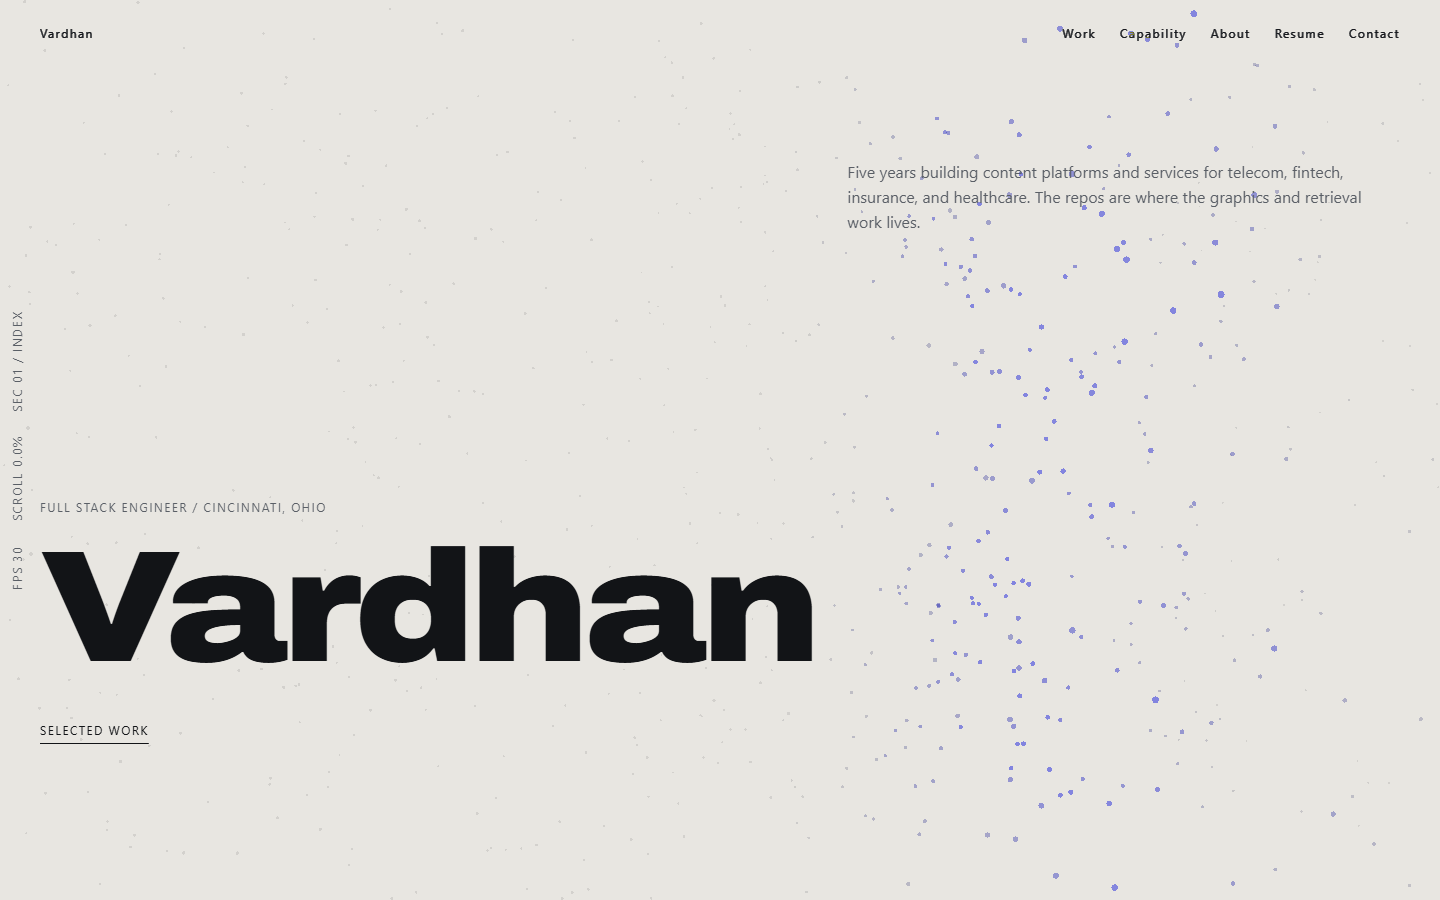
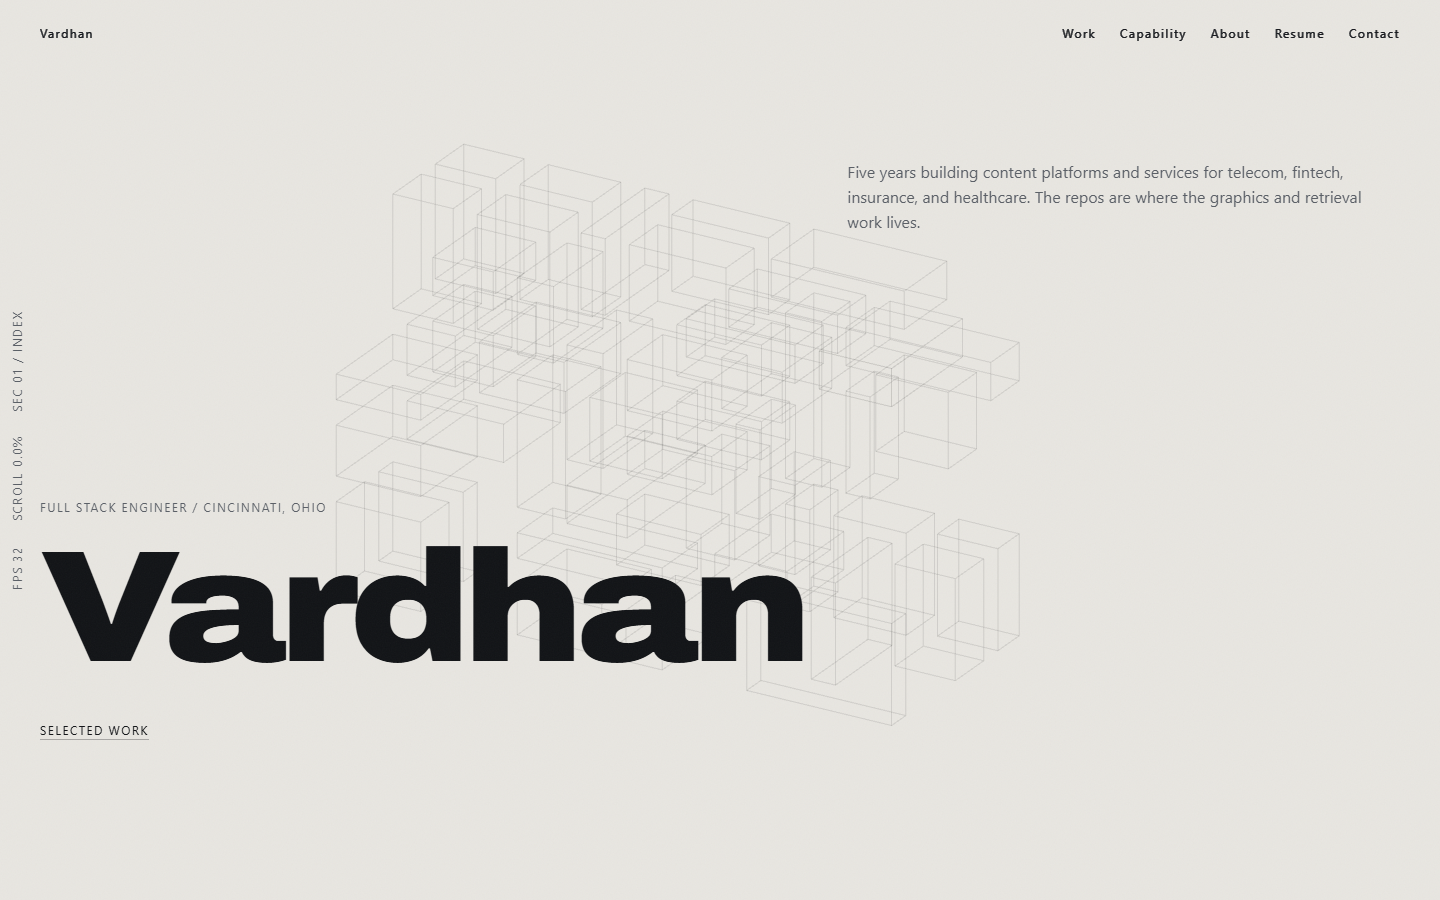
Bring the README back in line with the site
The README still described the hero as a point cloud, had no mention of Fit
Check, and its preview images predated all three workstreams.

- Document The Index: recursive subdivision, orthographic projection, the
  vertex-shader assembly, depth-weighted line opacity, and why the non-WebGL
  fallback is inline SVG rather than an img element.
- Add a Fit Check section covering the visible retrieval, the corpus, the
  calibrated relevance floor, and the guardrails.
- Recapture every preview image from the current build, including one showing
  a real assessment with its evidence on screen. Drop the unused about shot.
- Add scripts/preview.mjs so the images can be regenerated rather than
  hand-made, and list build-corpus alongside the other tooling.

Performance section rewritten to claim only what holds. Composite Lighthouse
scores measured here were not reproducible across a long session: with a
byte-identical bundle, desktop measured 93 early and 58 hours later. The table
now carries the figures that held across every run or are deterministic, names
mobile LCP as the one unmet budget, and says to measure the deployed site
rather than trust a local score.

Also correct the accessibility notes: an empty alt on a decorative image is
right rather than missing, and the hero reveal is skipped below 768px.

Changed region(s): [[0.1875, 0.5911, 0.5625, 0.7467]]

diff --git a/README.md b/README.md
@@ -10,12 +10,6 @@ Precise hairline grids, monospace telemetry, one accent colour, and scroll chore
 
 </div>
 
-<br />
-
-![Hero](docs/preview/hero.png)
-
-<br />
-
 ---
 
 ## The idea
@@ -31,6 +25,22 @@ SEC 03 / WORK        SCROLL 42.7%        FPS 60
 Every one of those numbers is real. The section comes from a bounds check against the viewport centre, the scroll percentage from the smooth-scroll engine's own progress value, and the frame rate from an actual `requestAnimationFrame` counter on a rolling one-second window. Nothing is a decorative animation pretending to be data.
 
 Everything else stays deliberately quiet so that one element can carry the personality.
+
+The second signature element is [Fit Check](#fit-check): paste a job description and the page tells you where Vardhan matches it and where he does not, showing the retrieved evidence rather than hiding it.
+
+---
+
+## The hero object
+
+![The Index](docs/preview/hero.png)
+
+A single constructed object built from 48 rectangular volumes on a strict three-dimensional grid, rendered as thin lines rather than solid surfaces. It is a content architecture seen in the abstract: modules nested inside modules, every edge parallel to one of three axes, nothing rotated off-axis.
+
+The structure comes from recursive subdivision rather than scattered placement, because subdivision is what a content hierarchy actually is, and because randomly positioned boxes read as a wireframe city. It is generated from a fixed seed, so it is the same object every build.
+
+On entry it assembles: modules arrive from outside the frame along a single axis each and snap into place, bottom to top. That runs entirely in the vertex shader from a single merged geometry, because animating 48 separate objects would mean 48 draw calls and per-object matrix work on the main thread every frame. Line opacity falls off with view depth, which is what stops the interior collapsing into a tangle and what makes it read as a drafted axonometric.
+
+Where WebGL does not run, below 768px or under reduced motion, the same generator projects the same structure to a single inline SVG path. Not an `<img>`: an image element is a Largest Contentful Paint candidate, and as a file reference the decoration became the LCP element on mobile with a 6.8s load delay.
 
 ---
 
@@ -48,6 +58,24 @@ The page begins on paper, turns to void as you enter the work, and returns to pa
 <td><sub><b>Selected work</b> · a horizontal track translated on X against vertical scroll. Media parallaxes faster than the track, text slower, creating depth inside the horizontal move.</sub></td>
 </tr>
 </table>
+
+---
+
+## Fit Check
+
+![Fit Check](docs/preview/fit-check.png)
+
+Paste a job description; get a verdict, the specific matches with citations, and the gaps. It is built to say no.
+
+Two things make it worth having. It answers the question a recruiter actually arrives with, which is not "tell me about this person" but "does he fit the role on my desk". And it is honest, which the category is not: an assessor that opens with "no Kubernetes experience, and this role lists it three times" is credible in a way a sales bot is not.
+
+**The retrieval is on screen.** Every entry pulled from the corpus is listed with its cosine score as the answer streams. Hiding retrieval behind a typing indicator is the norm; showing it makes the feature a demonstration of the retrieval work rather than a claim about it.
+
+**How it works.** Twenty-two hand-written entries in [`content/corpus/`](content/corpus), each embedded once by [`scripts/build-corpus.mjs`](scripts/build-corpus.mjs) with the vectors committed, so a request never waits on an embedding build. At query time the job description is embedded, scored by cosine similarity, and the top six above a relevance floor are passed to the model. No vector database: twenty-two entries is an array and a dot product.
+
+**The floor is calibrated, not guessed.** Measured against this corpus, genuine role queries top out between 0.67 and 0.78 while unrelated ones ("equine veterinary surgeon", "sourdough starter") reach 0.53. The floor sits at 0.60, which separates them while still admitting a poor-fit role: a Kubernetes platform position scores 0.672 and deserves an honest no rather than a refusal.
+
+**Guardrails.** Entries marked `verified: false` are excluded from retrieval entirely rather than caveated in the output, so an unreviewed draft does not exist as far as the feature is concerned. The pasted text is never logged or stored. Everything inside the job description is treated as data, never instruction: attempts to override the system prompt, claim unearned expertise, or exfiltrate the prompt were tested and all three were ignored. Rate limited per IP, capped daily, 15 second timeout, and every failure path degrades to a message pointing at the resume.
 
 ---
 
@@ -106,17 +134,26 @@ src/
 ├── app/
 │   ├── globals.css              Token system, single source of truth
 │   ├── layout.tsx               Fonts, entry gate, providers
-│   └── api/contact/route.ts     Validated, rate-limited mail endpoint
+│   └── api/
+│       ├── contact/route.ts     Validated, rate-limited mail endpoint
+│       └── fit/route.ts         Fit Check: retrieval + streaming assessment
 ├── components/
 │   ├── EntrySequence.tsx        First-load curtain, real load progress
 │   ├── InstrumentRail.tsx       The signature element
 │   ├── HeroSection.tsx          Masked line reveal
 │   ├── PositioningSection.tsx   Pinned word scrub + tonal arc
 │   ├── ProjectsSection.tsx      Horizontal pinned gallery
+│   ├── FitCheck.tsx             Job description assessment
+│   ├── StateCursor.tsx          VIEW / DRAG / arrow, no trailing dot
+│   ├── HeroStructureFallback.tsx  Inline SVG where WebGL does not run
 │   ├── providers/               Single smooth-scroll instance
-│   └── webgl/                   Point cloud, one canvas for the page
+│   └── webgl/                   The Index, one canvas for the page
 ├── hooks/useReducedMotion.ts
-└── lib/gsap.ts                  Central plugin registration
+└── lib/
+    ├── gsap.ts                  Central plugin registration
+    └── fit.ts                   Cosine retrieval over the committed vectors
+
+content/corpus/                  22 hand-written entries behind Fit Check
 ```
 
 ### Notes worth knowing
@@ -136,11 +173,13 @@ src/
 Verified by [`scripts/audit.mjs`](scripts/audit.mjs), which drives a real browser and asserts 25 checks:
 
 - Contrast at or above 4.5:1 for body text on both palettes
-- One `h1`, no skipped heading levels, real landmarks, alt text on every image
+- One `h1`, no skipped heading levels, real landmarks, and alt text on every image that carries meaning (decorative ones are correctly marked empty rather than described)
 - Full keyboard traversal with a visible `--signal` focus ring on every stop, applied instantly rather than faded in
 - `prefers-reduced-motion: reduce` creates **no** pins, **no** scroll scrubs, never constructs the smooth-scroll engine, and never mounts the canvas — every section stays fully readable at final position
 
-Reduced motion is handled per section as each was built, not retrofitted at the end.
+Fit Check is fully keyboard operable, announces its result through a live region, and states under the input that nothing is logged.
+
+Reduced motion is handled per section as each was built, not retrofitted at the end. Below 768px the hero reveal is skipped as well, because setting opacity to zero after hydration made the hero text the Largest Contentful Paint element with three seconds of render delay.
 
 ```bash
 node scripts/audit.mjs http://localhost:3000
@@ -154,11 +193,14 @@ The horizontal gallery falls back to a vertical stack below 768px, where a pinne
 
 | Metric | Measured | Budget |
 | --- | --- | --- |
-| Largest Contentful Paint | 1.2s | < 2.5s |
+| First-load JavaScript | 167 kB | < 250 kB |
 | Cumulative Layout Shift | 0 | < 0.05 |
-| First-load JavaScript | 166kB | < 250kB |
+| Largest Contentful Paint, desktop | 0.7–1.2s | < 2.5s |
+| Largest Contentful Paint, mobile | 3.0–4.1s | < 2.5s |
 
 Only `transform` and `opacity` are animated on scroll. The canvas caps device pixel ratio at 2, mounts only near the viewport, unmounts on tab blur, and is skipped entirely on mobile and under reduced motion. The 3D layer is dynamically imported so it never touches the first load.
+
+**A note on Lighthouse numbers.** Composite scores measured on a development machine were not reproducible across a long session: with a byte-identical bundle, desktop measured 93 early and 58 hours later. The figures above are the ones that held across every run, or are deterministic. Mobile LCP is the one budget still unmet, bound by main-thread contention during hydration rather than by fonts or render-blocking CSS. Measure the deployed site rather than trusting a local score.
 
 ---
 
@@ -183,15 +225,18 @@ Create `.env.local`:
 RESEND_API_KEY=re_...
 CONTACT_TO_EMAIL=you@example.com
 CONTACT_FROM_EMAIL=Portfolio <hello@yourdomain.com>
+GEMINI_API_KEY=...
 ```
 
-Without these the contact endpoint returns 503 and the form says so plainly. A form that silently does nothing is worse than no form.
+Without the Resend keys the contact endpoint returns 503 and the form says so plainly. A form that silently does nothing is worse than no form. Without `GEMINI_API_KEY` the Fit Check endpoint does the same, pointing the visitor at the resume instead.
 
 ### Tooling
 
 ```bash
 node scripts/shoot.mjs <url> <outDir> [--reduced]   # every section at 0/50/100%, 1440px and 390px
 node scripts/audit.mjs <url>                        # 25 accessibility and reduced-motion checks
+node scripts/build-corpus.mjs                       # re-embed content/corpus after editing it
+node scripts/preview.mjs <url>                      # recapture the images in this README
 ```
 
 `shoot.mjs` measures the pin spacer rather than the section for pinned content, otherwise the entire scrubbed range goes uncaptured.
@@ -200,7 +245,7 @@ node scripts/audit.mjs <url>                        # 25 accessibility and reduc
 
 ## Stack
 
-Next.js (App Router) · TypeScript · Tailwind CSS v4 · GSAP + ScrollTrigger · Lenis · SplitType · react-three-fiber · Resend
+Next.js (App Router) · TypeScript · Tailwind CSS v4 · GSAP + ScrollTrigger · Lenis · SplitType · react-three-fiber · Resend · Gemini
 
 ---
 
